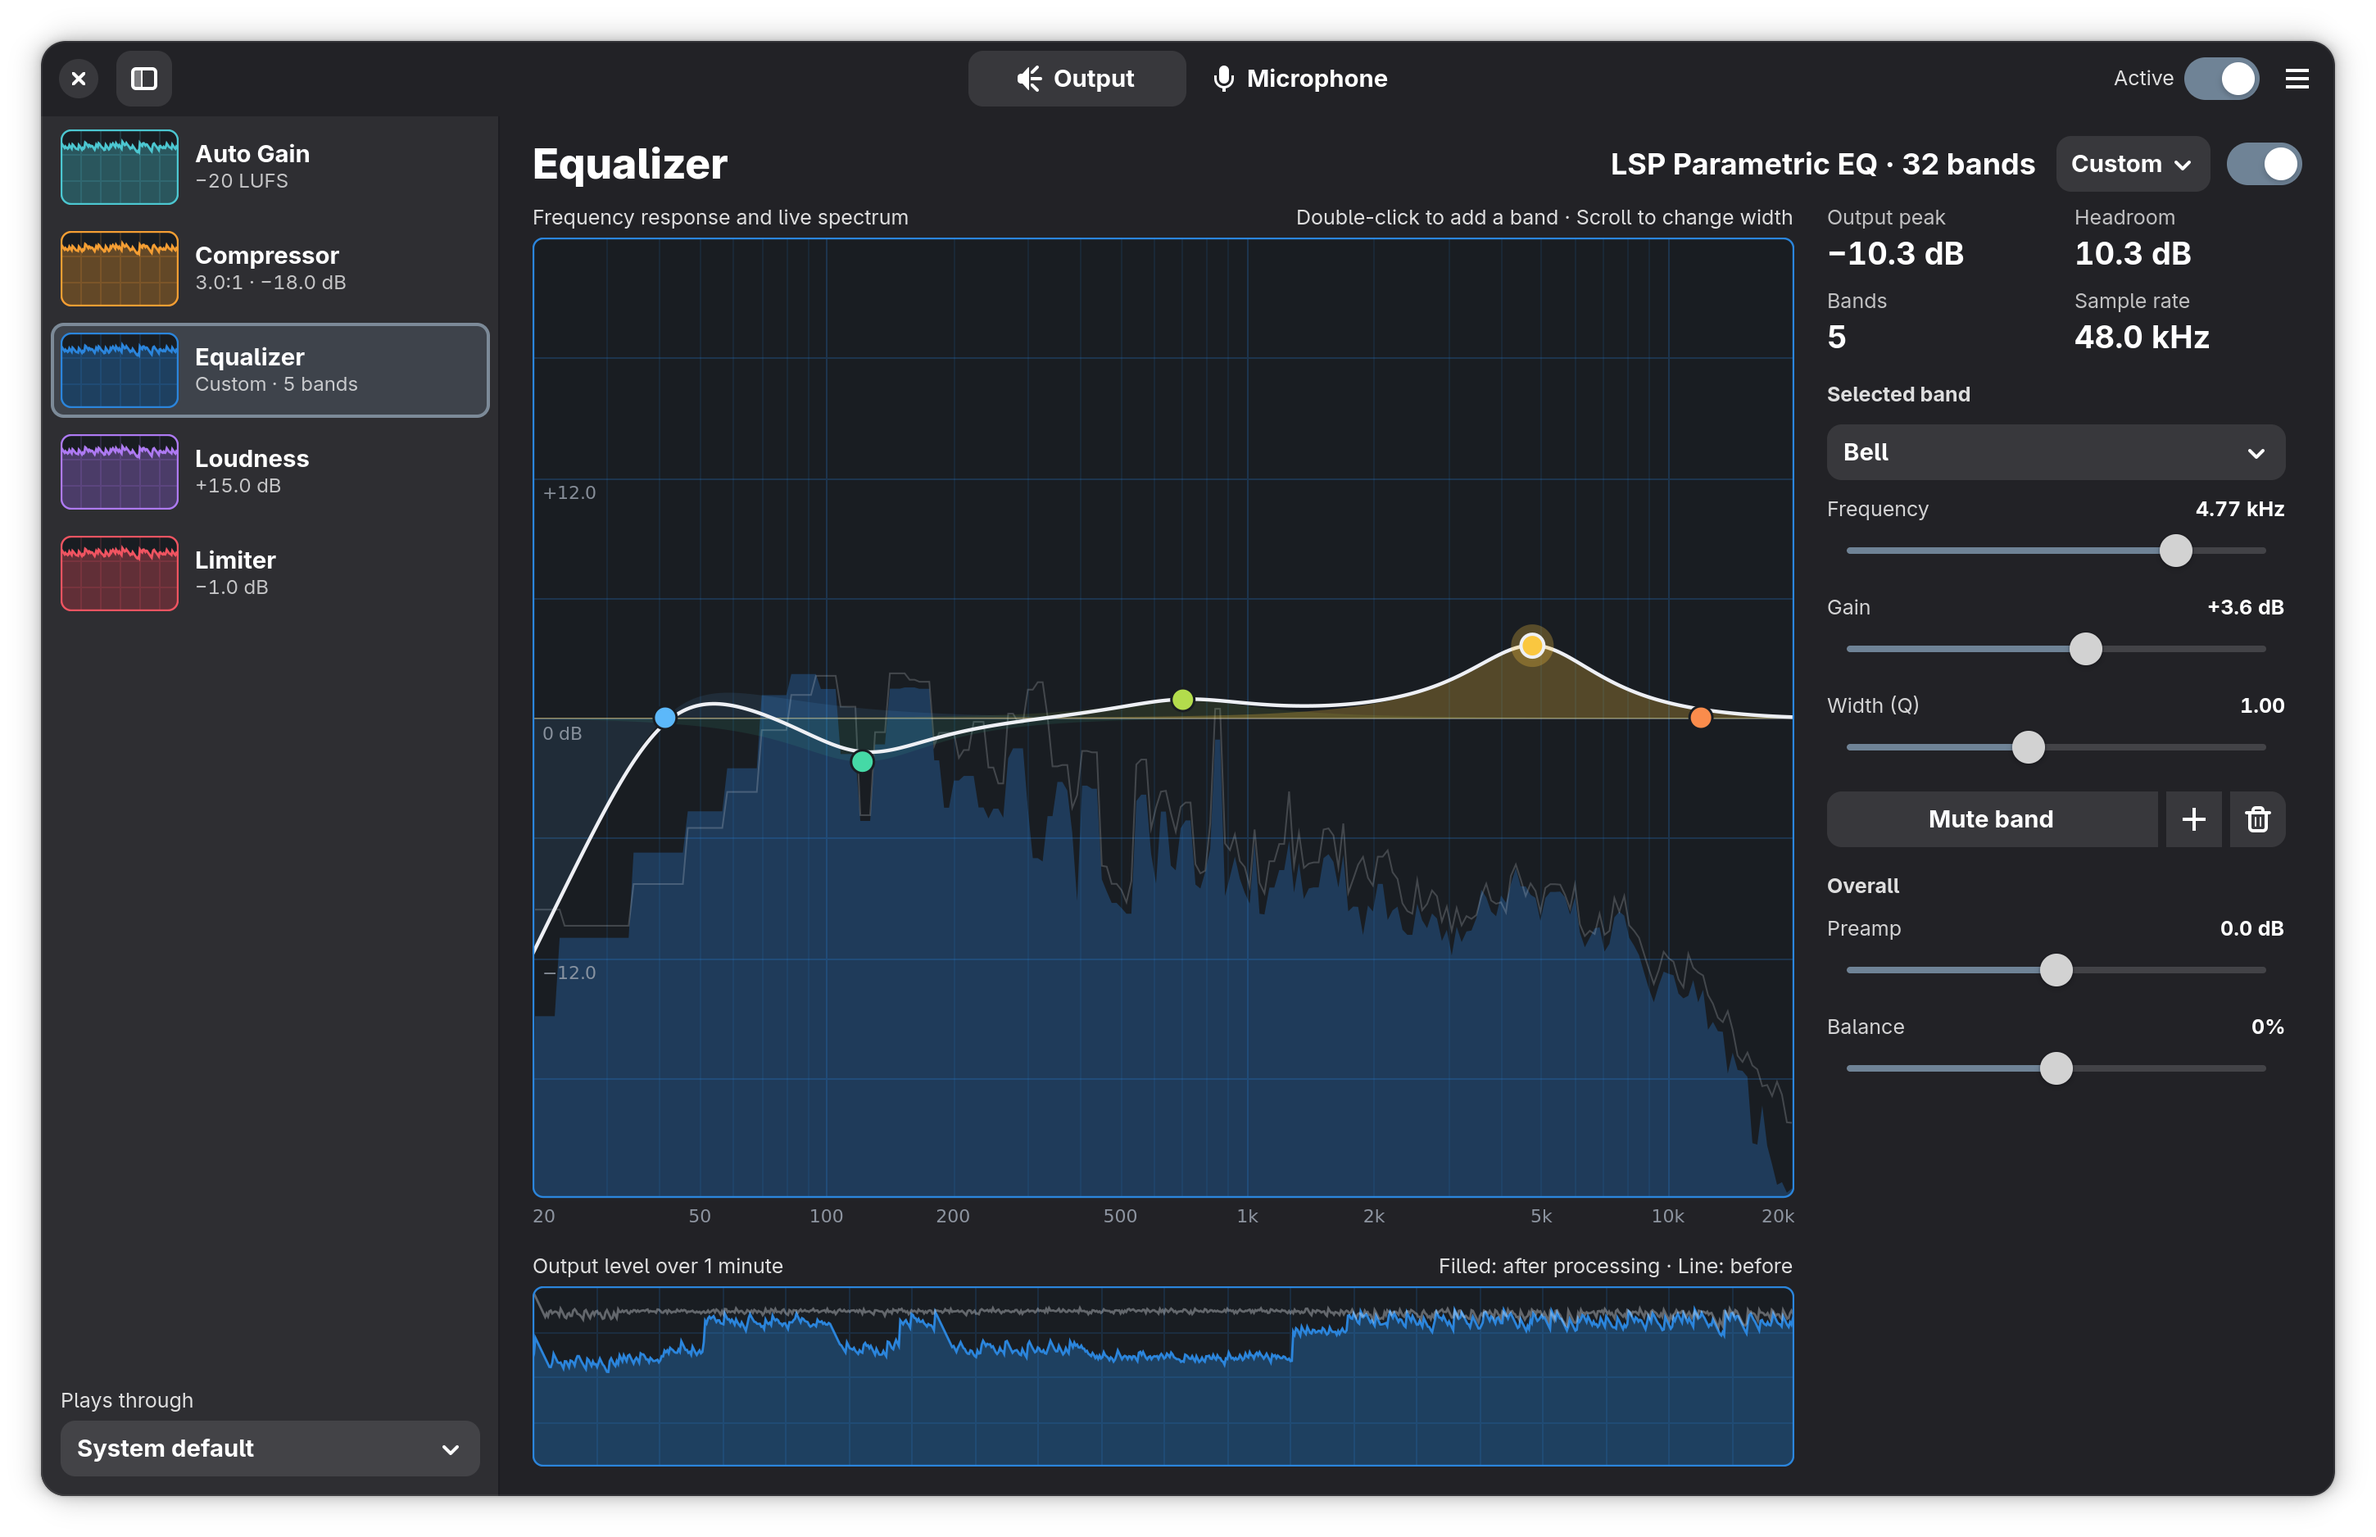
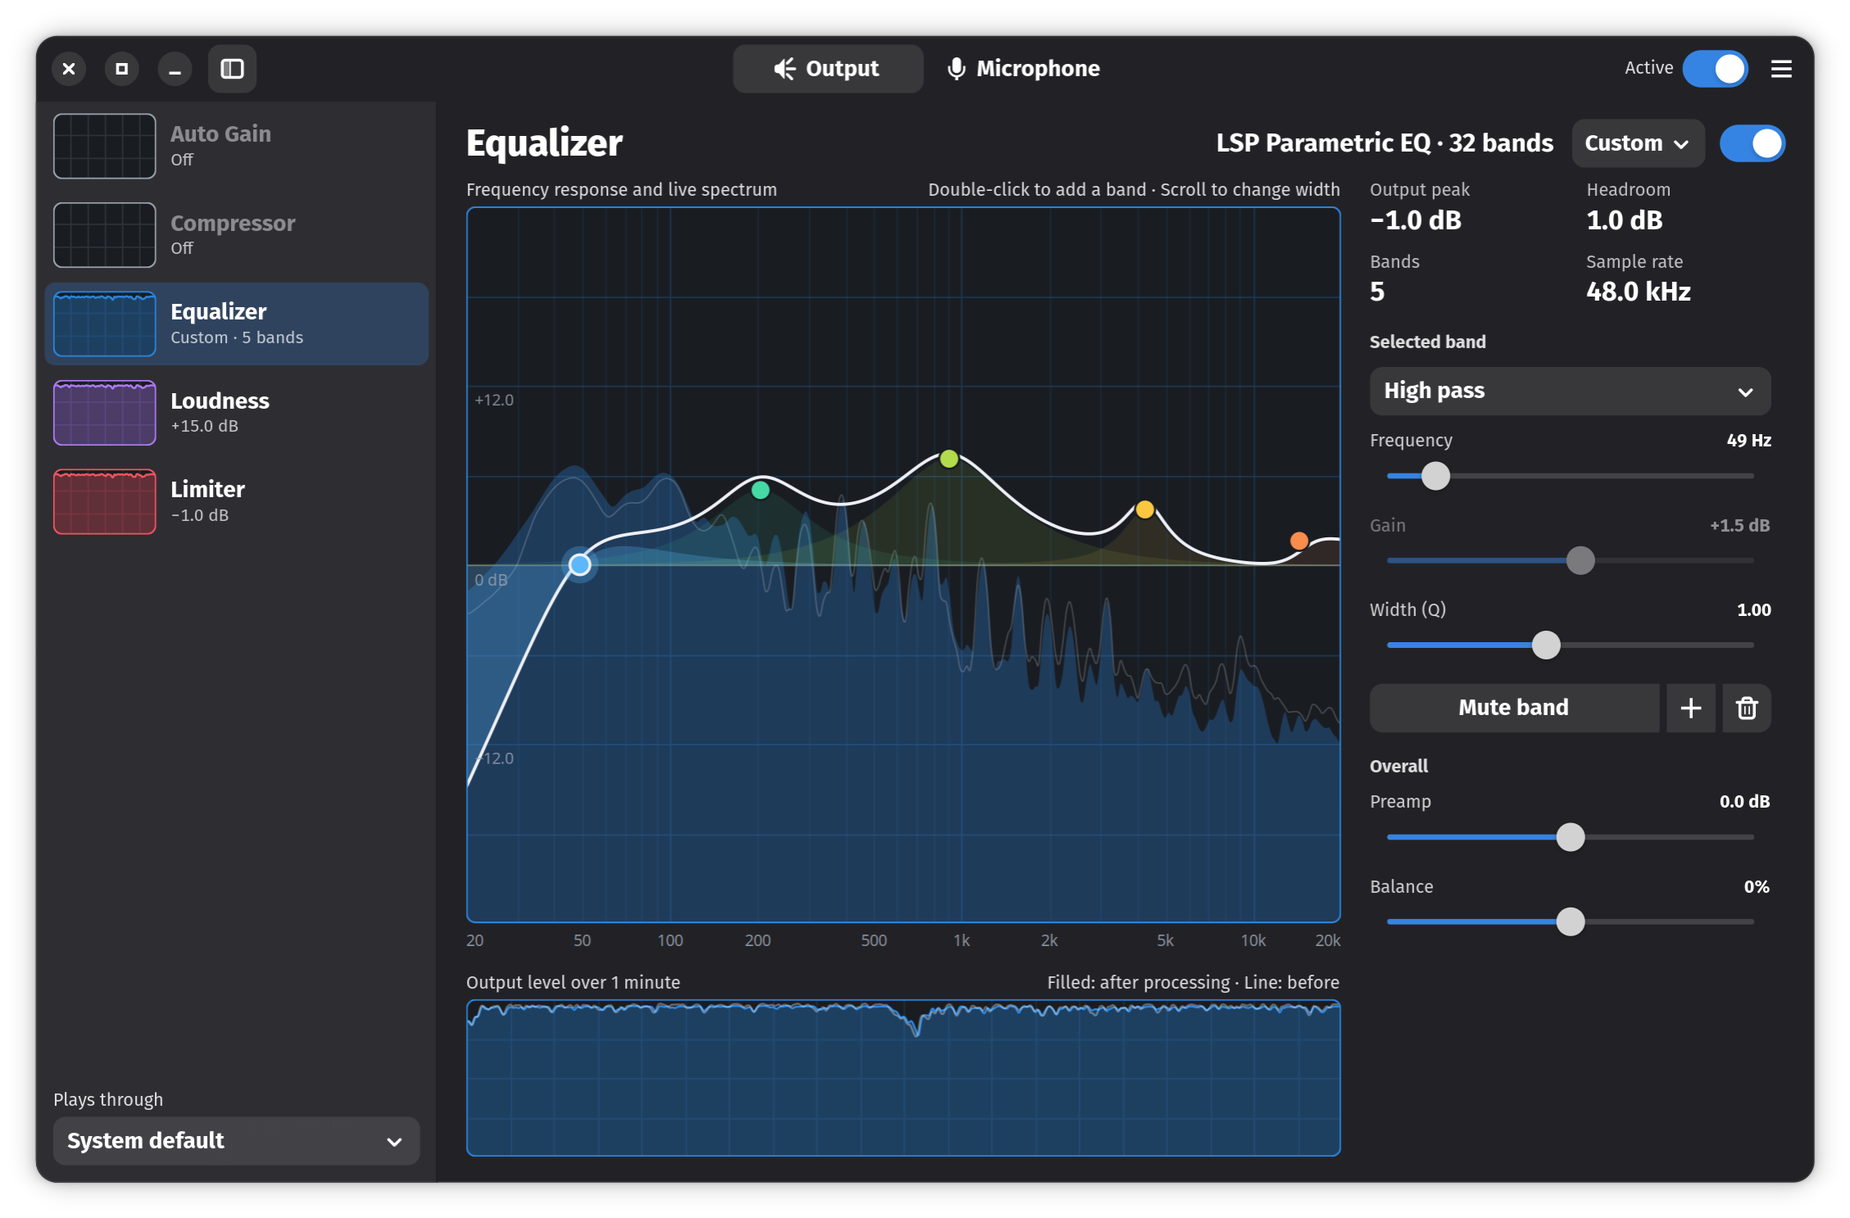
Release 0.0.4
- Draw the graphs as smooth curves: the spectrum no longer steps at low frequencies, and the timeline no longer spikes
- Add a PKGBUILD for Arch Linux
- Update the screenshot

diff --git a/src/dsp.rs b/src/dsp.rs
@@ -110,12 +110,27 @@ impl Analyzer {
     }
 }
 
+/// How steep a smooth curve should be at a point, given the change on either side of it.
+/// Carrying the slope through each point makes the line flow like a wave, rather than
+/// leveling off into terraces, at the cost of sometimes going slightly past a sharp peak.
+pub fn curve_slope(before: f64, after: f64) -> f64 {
+    (before + after) / 2.0
+}
+
+/// Reads between `y1` and `y2`, with `t` from 0 to 1, along a curve that also takes in their neighbors.
+fn curve_between(y0: f64, y1: f64, y2: f64, y3: f64, t: f64) -> f64 {
+    let (m1, m2) = (curve_slope(y1 - y0, y2 - y1), curve_slope(y2 - y1, y3 - y2));
+    let (t2, t3) = (t * t, t * t * t);
+    (2.0 * t3 - 3.0 * t2 + 1.0) * y1 + (t3 - 2.0 * t2 + t) * m1 + (3.0 * t2 - 2.0 * t3) * y2 + (t3 - t2) * m2
+}
+
 /// Turns the newest samples into log-spaced columns of dB values.
 pub struct Spectrum {
     fft: Arc<dyn Fft<f32>>,
     window: Vec<f32>,
     input: Vec<f32>,
     buf: Vec<Complex<f32>>,
+    bins: Vec<f64>,
     pub columns: Vec<f64>,
 }
 
@@ -134,6 +149,7 @@ impl Spectrum {
             window,
             input: vec![0.0; FFT_SIZE],
             buf: vec![Complex::default(); FFT_SIZE],
+            bins: vec![SPECTRUM_FLOOR; FFT_SIZE / 2 + 1],
             columns: vec![SPECTRUM_FLOOR; SPECTRUM_COLUMNS],
         }
     }
@@ -149,16 +165,32 @@ impl Spectrum {
         let ratio = (FREQ_MAX / FREQ_MIN).powf(1.0 / SPECTRUM_COLUMNS as f64);
         // A Hann window halves the amplitude, hence 4 rather than 2.
         let norm = 4.0 / FFT_SIZE as f64;
+        for (level, bin) in self.bins.iter_mut().zip(&self.buf) {
+            *level = to_db(bin.norm() as f64 * norm).max(SPECTRUM_FLOOR);
+        }
+        let last = FFT_SIZE / 2;
         for c in 0..SPECTRUM_COLUMNS {
             let lo = FREQ_MIN * ratio.powi(c as i32);
             let hi = lo * ratio;
-            let a = ((lo / bin_hz) as usize).clamp(1, FFT_SIZE / 2 - 1);
-            let b = ((hi / bin_hz).ceil() as usize).clamp(a + 1, FFT_SIZE / 2);
-            let mut m = 0f64;
-            for bin in &self.buf[a..b] {
-                m = m.max(bin.norm() as f64 * norm);
+            // Low columns are narrower than a bin, and reading the nearest one would turn
+            // them into stairs, so each reads the curve between bins at its own center.
+            let center = ((lo * hi).sqrt() / bin_hz).clamp(1.0, (last - 1) as f64);
+            let a = center as usize;
+            let mut db = curve_between(
+                self.bins[(a - 1).max(1)],
+                self.bins[a],
+                self.bins[a + 1],
+                self.bins[(a + 2).min(last)],
+                center - a as f64,
+            );
+            // Higher columns span several bins. The loudest one sets the level, so peaks stay true.
+            let first = ((lo / bin_hz).ceil() as usize).max(1);
+            let end = ((hi / bin_hz).floor() as usize).min(last);
+            if first <= end {
+                for bin in &self.bins[first..=end] {
+                    db = db.max(*bin);
+                }
             }
-            let db = to_db(m).max(SPECTRUM_FLOOR);
             // Rise instantly and fall gently, like a monitor trace.
             let held = self.columns[c] - 1.8;
             self.columns[c] = db.max(held).max(SPECTRUM_FLOOR);
@@ -249,6 +281,46 @@ mod tests {
         let f = FREQ_MIN * ratio.powi(col as i32);
         assert!(f > 900.0 && f < 1100.0, "peak at {f} Hz");
         assert!(db.abs() < 1.0, "peak level {db} dB");
+    }
+
+    #[test]
+    fn low_frequencies_change_gradually_rather_than_in_steps() {
+        let mut a = Analyzer::new();
+        let samples: Vec<f32> = (0..FFT_SIZE)
+            .flat_map(|i| {
+                let v = (2.0 * PI * 80.0 * i as f64 / 48_000.0).sin() as f32;
+                [v, v]
+            })
+            .collect();
+        a.feed(&samples);
+        let mut s = Spectrum::new();
+        s.update(&a);
+        let ratio = (FREQ_MAX / FREQ_MIN).powf(1.0 / SPECTRUM_COLUMNS as f64);
+        let col_at = |f: f64| ((f / FREQ_MIN).ln() / ratio.ln()) as usize;
+        // Around the tone, where several columns share each bin, every column moves.
+        for pair in s.columns[col_at(50.0)..col_at(110.0)].windows(2) {
+            assert!((pair[1] - pair[0]).abs() > 1e-6, "flat step at {pair:?}");
+        }
+    }
+
+    #[test]
+    fn the_curve_between_points_touches_them_and_stays_close() {
+        // Touches the points it starts and ends on.
+        assert!((curve_between(0.0, 2.0, 5.0, 6.0, 0.0) - 2.0).abs() < 1e-9);
+        assert!((curve_between(0.0, 2.0, 5.0, 6.0, 1.0) - 5.0).abs() < 1e-9);
+        // Even beside a sharp peak it only strays a little past its two points.
+        for i in 0..=20 {
+            let v = curve_between(0.0, 10.0, 0.0, 0.0, i as f64 / 20.0);
+            assert!((-1.5..=11.5).contains(&v), "{v} strays too far");
+        }
+    }
+
+    #[test]
+    fn a_curve_keeps_its_slope_through_a_point() {
+        assert_eq!(curve_slope(2.0, 4.0), 3.0);
+        // Level only at a symmetric peak, so uneven peaks stay pointed rather than flat.
+        assert_eq!(curve_slope(5.0, -5.0), 0.0);
+        assert_eq!(curve_slope(6.0, -2.0), 2.0);
     }
 
     #[test]

diff --git a/src/graphs.rs b/src/graphs.rs
@@ -4,6 +4,7 @@ use gtk::pango;
 use std::collections::VecDeque;
 use std::f64::consts::PI;
 
+use crate::dsp;
 use crate::theme::{self, Rgb};
 
 pub const HISTORY_FLOOR: f64 = -60.0;
@@ -79,18 +80,61 @@ pub fn text(cr: &Context, s: &str, x: f64, y: f64, size: f64, color: Rgb, alpha:
     (tw as f64, th as f64)
 }
 
-/// A scrolling level trace, newest on the right, in dBFS.
-pub fn trace(cr: &Context, w: f64, h: f64, data: &VecDeque<f64>, capacity: usize, color: Rgb, fill: bool, line_alpha: f64) {
+/// Softens jitter in dB values for display. It blurs `sigma` points each way, averaging
+/// power rather than dB so that quiet moments don't drag loud peaks down with them.
+pub fn smooth_levels(data: impl IntoIterator<Item = f64>, sigma: f64) -> Vec<f64> {
+    let power: Vec<f64> = data.into_iter().map(|db| 10f64.powf(db / 10.0)).collect();
+    let radius = (sigma * 3.0).ceil() as isize;
+    let weights: Vec<f64> = (-radius..=radius).map(|d| (-0.5 * (d as f64 / sigma).powi(2)).exp()).collect();
+    (0..power.len() as isize)
+        .map(|i| {
+            // Near the ends the blur only has one side to work with.
+            let (mut sum, mut total) = (0.0, 0.0);
+            for (d, weight) in (-radius..=radius).zip(&weights) {
+                if let Some(p) = usize::try_from(i + d).ok().and_then(|j| power.get(j)) {
+                    sum += p * weight;
+                    total += weight;
+                }
+            }
+            10.0 * (sum / total).log10()
+        })
+        .collect()
+}
+
+/// Continues the path with a smooth, wave-like curve through evenly spaced points.
+pub fn curve_through(cr: &Context, x0: f64, step: f64, ys: &[f64]) {
+    let Some(first) = ys.first() else { return };
+    cr.line_to(x0, *first);
+    let slope_at = |i: usize| {
+        let before = if i > 0 { ys[i] - ys[i - 1] } else { 0.0 };
+        let after = if i + 1 < ys.len() { ys[i + 1] - ys[i] } else { 0.0 };
+        dsp::curve_slope(before, after)
+    };
+    for i in 1..ys.len() {
+        let (x1, x2) = (x0 + (i - 1) as f64 * step, x0 + i as f64 * step);
+        cr.curve_to(
+            x1 + step / 3.0,
+            ys[i - 1] + slope_at(i - 1) / 3.0,
+            x2 - step / 3.0,
+            ys[i] - slope_at(i) / 3.0,
+            x2,
+            ys[i],
+        );
+    }
+}
+
+/// A scrolling level trace, newest on the right, in dBFS. `blur_px` is set in pixels, so
+/// a graph keeps its look when the window is resized.
+pub fn trace(cr: &Context, w: f64, h: f64, data: &VecDeque<f64>, capacity: usize, color: Rgb, fill: bool, line_alpha: f64, blur_px: f64) {
     if data.len() < 2 {
         return;
     }
     let step = w / (capacity.max(2) - 1) as f64;
     let start = w - (data.len() - 1) as f64 * step;
     let y_of = |db: f64| h - ((db - HISTORY_FLOOR) / -HISTORY_FLOOR).clamp(0.0, 1.0) * (h - 3.0);
-    cr.move_to(start, y_of(data[0]));
-    for (i, v) in data.iter().enumerate().skip(1) {
-        cr.line_to(start + i as f64 * step, y_of(*v));
-    }
+    let levels = smooth_levels(data.iter().copied(), blur_px / step);
+    let ys: Vec<f64> = levels.iter().map(|db| y_of(*db)).collect();
+    curve_through(cr, start, step, &ys);
     if fill {
         let path = cr.copy_path();
         cr.line_to(w, h);
@@ -237,6 +281,42 @@ mod tests {
         text(&cr, "0 dB", 6.0, 50.0, 11.0, theme::DIM, 0.85, pango::Alignment::Left);
         // An arc would otherwise draw a line from the label to wherever the arc starts.
         assert!(!cr.has_current_point().expect("cairo state"));
+    }
+
+    #[test]
+    fn smoothing_leaves_a_steady_level_alone() {
+        for db in smooth_levels([-20.0; 30], 1.2) {
+            assert!((db + 20.0).abs() < 1e-9);
+        }
+    }
+
+    #[test]
+    fn smoothing_softens_fast_jitter() {
+        let jitter: Vec<f64> = (0..200).map(|i| if i % 2 == 0 { -20.0 } else { -26.0 }).collect();
+        let soft = smooth_levels(jitter, 1.2);
+        for pair in soft[20..180].windows(2) {
+            assert!((pair[1] - pair[0]).abs() < 0.1, "still jagged: {pair:?}");
+        }
+    }
+
+    #[test]
+    fn smoothing_keeps_a_loud_peak_prominent() {
+        let mut spike = vec![-60.0; 101];
+        spike[50] = -20.0;
+        let soft = smooth_levels(spike, 1.2);
+        assert!(soft[50] > -25.0, "peak sank to {}", soft[50]);
+        assert!(soft[50] <= -20.0 + 1e-9, "peak rose to {}", soft[50]);
+    }
+
+    #[test]
+    fn curves_pass_through_every_point_and_stay_close_to_them() {
+        let surface = gtk::cairo::ImageSurface::create(gtk::cairo::Format::ARgb32, 100, 100).expect("surface");
+        let cr = Context::new(&surface).expect("context");
+        curve_through(&cr, 0.0, 10.0, &[50.0, 10.0, 90.0, 90.0, 20.0]);
+        assert_eq!(cr.current_point().expect("cairo state"), (40.0, 20.0));
+        let (_, top, _, bottom) = cr.path_extents().expect("cairo state");
+        assert!((5.0..=10.0).contains(&top), "curve reached up to {top}");
+        assert!((90.0..=105.0).contains(&bottom), "curve reached down to {bottom}");
     }
 
     #[test]

diff --git a/src/app.rs b/src/app.rs
@@ -19,6 +19,10 @@ use crate::theme::{self, Rgb};
 pub const APP_ID: &str = "io.github.zoeruda.Equalizer";
 const HISTORY_LEN: usize = 900; // one minute at the 15 Hz history rate
 const SPARK_LEN: usize = 150;
+/// How far each level graph is blurred. The small ones pack in about two samples per pixel,
+/// so they take far less, or their jitter disappears.
+const LEVEL_BLUR_PX: f64 = 1.0;
+const SPARK_BLUR_PX: f64 = 0.4;
 const DIRS: [Direction; 2] = [Direction::Output, Direction::Mic];
 
 /// Live measurements for one chain.
@@ -357,8 +361,8 @@ fn level_graph(ctx: &Rc<Ctx>, dir: Direction, color: Rgb, live: &LiveRef) -> gtk
         graphs::panel_begin(cr, w, h);
         graphs::grid(cr, w, h, 20, 4, color);
         let rt = ctx.rt[dir as usize].borrow();
-        graphs::trace(cr, w, h, &rt.history_post, HISTORY_LEN, color, true, 1.0);
-        graphs::trace(cr, w, h, &rt.history_pre, HISTORY_LEN, theme::TEXT, false, 0.35);
+        graphs::trace(cr, w, h, &rt.history_post, HISTORY_LEN, color, true, 1.0, LEVEL_BLUR_PX);
+        graphs::trace(cr, w, h, &rt.history_pre, HISTORY_LEN, theme::TEXT, false, 0.35, LEVEL_BLUR_PX);
         drop(rt);
         graphs::panel_end(cr, w, h, color);
     });
@@ -1082,7 +1086,7 @@ fn tile(ctx: &Rc<Ctx>, dir: Direction, id: &'static str, live: &LiveRef) -> gtk:
             let recent: VecDeque<f64> = rt.history_post.iter().rev().take(SPARK_LEN).rev().copied().collect();
             drop(rt);
             if on {
-                graphs::trace(cr, w, h, &recent, SPARK_LEN, c, true, 1.0);
+                graphs::trace(cr, w, h, &recent, SPARK_LEN, c, true, 1.0, SPARK_BLUR_PX);
             }
             graphs::panel_end(cr, w, h, c);
         });
@@ -1745,6 +1749,18 @@ fn tick_meters(ctx: &Ctx, dir: Direction) {
 mod tests {
     use super::*;
     use crate::model::EFFECTS;
+
+    #[test]
+    fn small_graphs_keep_their_jitter() {
+        // A 6 dB wobble lasting six samples, on a small graph at its usual width.
+        let jitter: Vec<f64> = (0..SPARK_LEN).map(|i| if i % 6 < 3 { -20.0 } else { -26.0 }).collect();
+        let step = 72.0 / (SPARK_LEN - 1) as f64;
+        let soft = graphs::smooth_levels(jitter, SPARK_BLUR_PX / step);
+        let middle = &soft[30..120];
+        let highest = middle.iter().copied().fold(f64::MIN, f64::max);
+        let lowest = middle.iter().copied().fold(f64::MAX, f64::min);
+        assert!(highest - lowest > 3.0, "only {} dB of wobble left", highest - lowest);
+    }
 
     #[test]
     fn typed_values_are_understood() {

diff --git a/src/eq_graph.rs b/src/eq_graph.rs
@@ -16,6 +16,8 @@ const HANDLE_RADIUS: f64 = 7.0;
 const HIT_RADIUS: f64 = 15.0;
 const AXIS_H: f64 = 22.0;
 const SNAP_DB: f64 = 0.35;
+/// How far the live spectrum is blurred for display, in columns.
+const SPECTRUM_BLUR: f64 = 0.8;
 /// A fixed scale, so a point never jumps out from under the pointer mid-drag.
 const RANGE: f64 = GAIN_LIMIT;
 
@@ -327,12 +329,18 @@ fn draw(ctx: &Ctx, dir: Direction, cr: &gtk::cairo::Context, w: f64, full_h: f64
     {
         let rt = ctx.rt[dir as usize].borrow();
         let y_sp = |db: f64| h - ((db - SPECTRUM_FLOOR) / -SPECTRUM_FLOOR).clamp(0.0, 1.0) * h * 0.74;
+        let step = w / SPECTRUM_COLUMNS as f64;
+        let curve = |cols: &[f64]| {
+            let ys: Vec<f64> = graphs::smooth_levels(cols.iter().copied(), SPECTRUM_BLUR)
+                .iter()
+                .map(|db| y_sp(*db))
+                .collect();
+            graphs::curve_through(cr, step / 2.0, step, &ys);
+        };
         let cols = &rt.spectrum_post.columns;
         if cols.iter().any(|c| *c > SPECTRUM_FLOOR + 0.5) {
             cr.move_to(0.0, h);
-            for (i, db) in cols.iter().enumerate() {
-                cr.line_to((i as f64 + 0.5) / SPECTRUM_COLUMNS as f64 * w, y_sp(*db));
-            }
+            curve(cols);
             cr.line_to(w, h);
             cr.close_path();
             graphs::seta(cr, color, 0.30);
@@ -340,10 +348,7 @@ fn draw(ctx: &Ctx, dir: Direction, cr: &gtk::cairo::Context, w: f64, full_h: f64
         }
         let cols = &rt.spectrum_pre.columns;
         if chain.enabled && cols.iter().any(|c| *c > SPECTRUM_FLOOR + 0.5) {
-            for (i, db) in cols.iter().enumerate() {
-                let (x, y) = ((i as f64 + 0.5) / SPECTRUM_COLUMNS as f64 * w, y_sp(*db));
-                if i == 0 { cr.move_to(x, y) } else { cr.line_to(x, y) }
-            }
+            curve(cols);
             graphs::seta(cr, theme::TEXT, 0.20);
             cr.set_line_width(1.0);
             let _ = cr.stroke();

diff --git a/README.md b/README.md
@@ -12,7 +12,7 @@
   <a href="LICENSE"><img src="https://img.shields.io/badge/license-GPL--3.0--or--later-blue" alt="License: GPL-3.0-or-later"></a>
 </p>
 
-> **Early release:** this is version 0.0.3, so expect rough edges and changes between versions.
+> **Early release:** this is version 0.0.4, so expect rough edges and changes between versions.
 
 ![Equalizer's graph with five bands over a live spectrum, with the effect chain in the sidebar](docs/screenshot.png)
 
@@ -58,8 +58,18 @@ The sandbox still limits the rest. The Flatpak has no network access, and apart 
 its own settings, it can only read files you choose to import. It also has access to
 your display and graphics hardware to draw its window.
 
-A copy from `./install.sh` has no sandbox, so it runs with all the access your user
-account has.
+A copy from `./install.sh` or the Arch package has no sandbox, so it runs with all the
+access your user account has.
+
+### Arch Linux
+
+From a copy of this repository, build and install the package with:
+
+    cd packaging/arch
+    makepkg -si
+
+This downloads the release that the `PKGBUILD` names, not the copy you're in. As with
+the other versions, don't run it alongside another copy of Equalizer.
 
 ### Build from source
 
